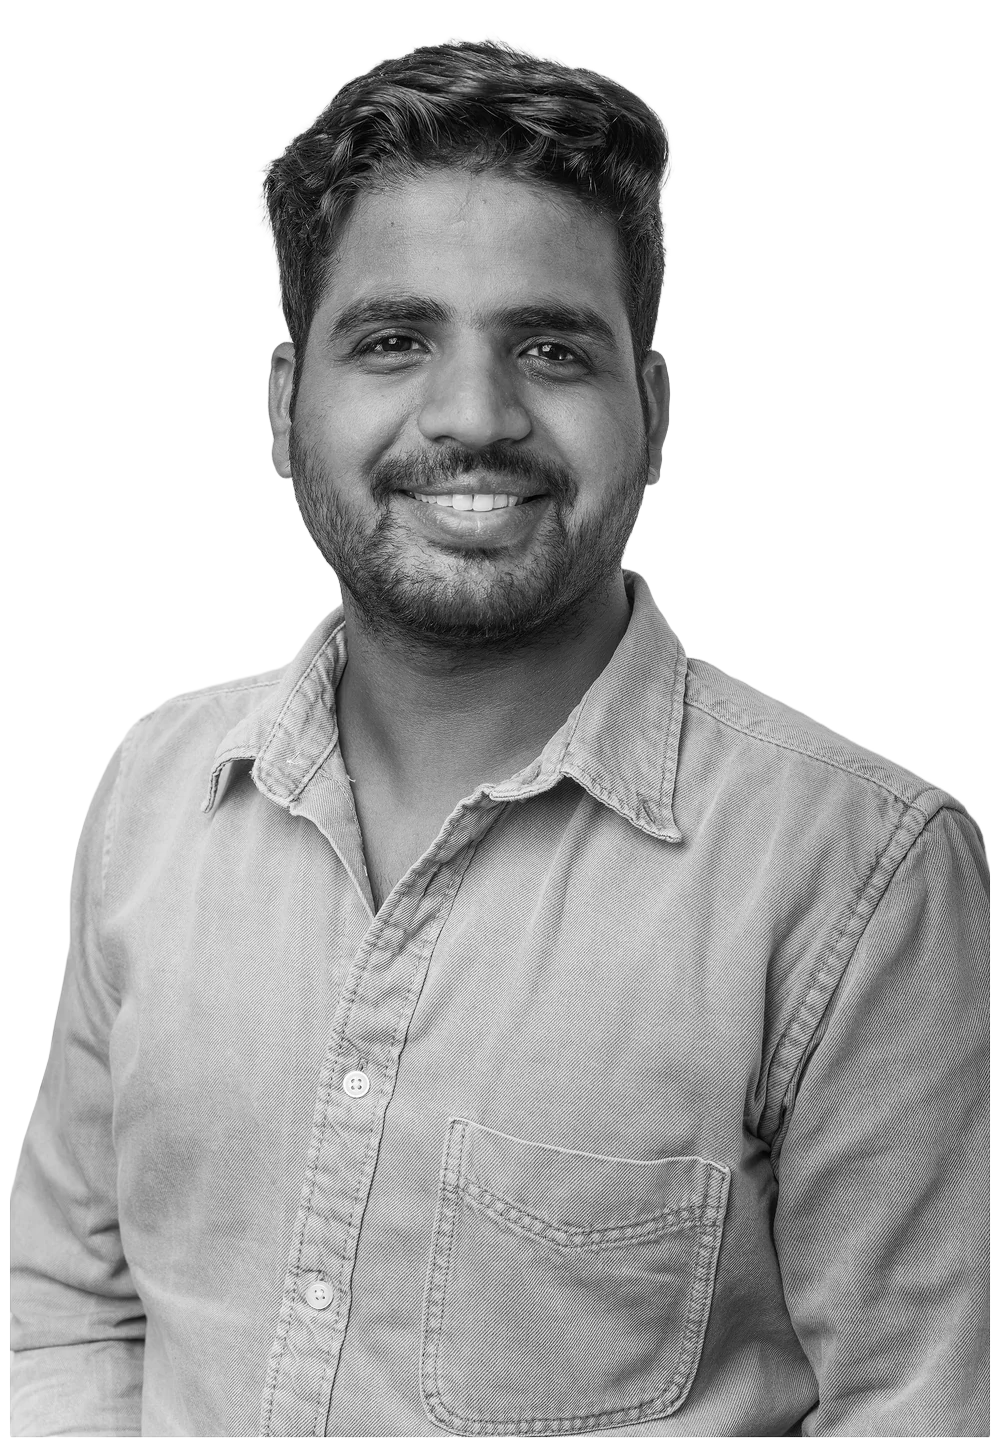
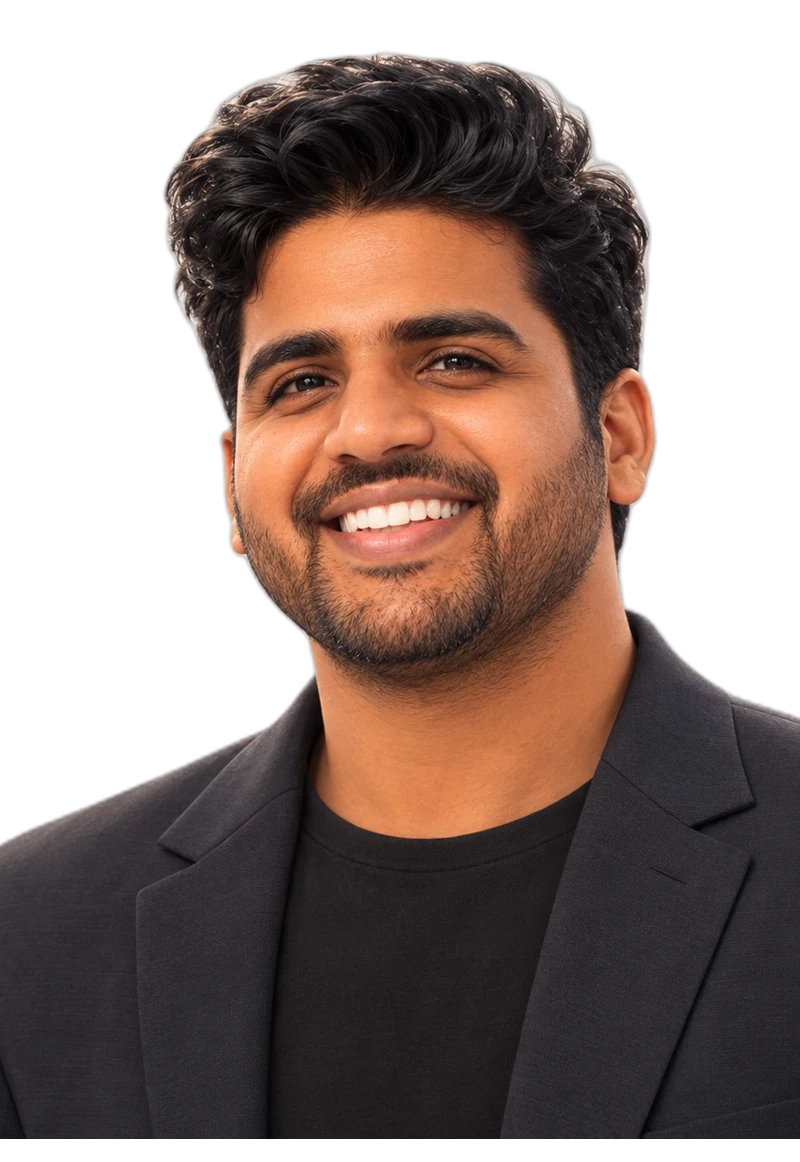
Publish the generated portrait, and say on the page that it is generated
The hero and the /about frame now carry the synthetic portrait the owner
generated from his own photograph, replacing the third-party photograph that
stood in the hero before. That reverses the decision recorded in
_portfolio-work/photos/PHOTOS.md, which confined it to the GitHub profile; the
reversal is recorded there rather than quietly made. The CVs and LinkedIn keep
the real photograph.

It is photorealistic, so a reader would otherwise take it for a photograph.
src/content/home.ts exports portraitNote, rendered as the hero figure's
figcaption and in the /about caption. Both read the one constant, so the two
pages cannot disagree about what the picture is, and removing the label is an
edit to a named export rather than a tidy-up of one page.

/about showed a "ZQ" monogram until now: ProfilePortrait looks for
public/images/zamin-profile.jpg and that file had never been committed. It is
committed here, square-cropped against its own backdrop rather than cut out,
because that frame is a squircle with a background of its own.

The hero pair is rebuilt by _portfolio-work/photos/make_hero_avatar.py from one
alpha matte and one crop box, composited onto the frame by the same geometry so
the depth map cannot drift from the colour texture and shear the face. Depth
comes from Depth Anything V2 Small, run locally. The frame keeps the 1000:1452
ratio, so home.css needed no change; the subject is fitted to its height and
[…]

diff --git a/src/content/home.ts b/src/content/home.ts
@@ -59,17 +59,19 @@ export const parisNetwork = {
 } as const;
 
 /*
- * There is no photographer credit on this site.
+ * There is no photographer credit on this site, and from 22 October 2026 there
+ * is nothing left to credit: the hero is no longer a photograph.
  *
- * A credit line sat in the footer of every page from 18 to 19 October 2026 and
+ * The history is kept because the clearance it records was conditional. A
+ * credit line sat in the footer of every page from 18 to 19 October 2026 and
  * was removed on 19 October at the owner's instruction. The owner holds the
  * licence and the relationship with the photographer, so whether an attribution
- * is published is theirs to decide.
+ * is published was theirs to decide.
  *
  * The photographer is deliberately not named here either. This repository is
  * public, so a name in a comment is a published name, which is the thing that
- * was asked to be removed. The clearance, the original condition and this
- * change are all recorded in `_portfolio-work/photos/PHOTOS.md`, which is local
+ * was asked to be removed. The clearance, the original condition and both
+ * changes are recorded in `_portfolio-work/photos/PHOTOS.md`, which is local
  * and not published.
  *
  * Nothing in the build depends on it. If it is ever restored it goes back in
@@ -79,19 +81,46 @@ export const parisNetwork = {
 /**
  * The hero portrait, and the depth map that gives it parallax.
  *
- * Both are produced together by `_portfolio-work/photos/make_hero_3d.py` from
- * one alpha matte and one crop box, so they align by construction. The depth
- * map comes from Depth Anything V2 run locally: the photograph is licensed
- * third-party work, and sending it to a hosted depth service would be a
- * redistribution nobody licensed.
+ * This is not a photograph. It is a synthetic portrait the owner generated
+ * from his own photograph, published here from 22 October 2026 at his
+ * instruction, replacing the third-party photograph that stood here before.
+ * Because it is photorealistic a reader would otherwise take it for a
+ * photograph, so the page says what it is underneath it: see `portraitNote`
+ * below, which is rendered as the figure's caption and is not optional
+ * decoration. The CVs and LinkedIn keep the real photograph; that split, and
+ * the reversal of the earlier decision, are recorded in
+ * `_portfolio-work/photos/PHOTOS.md`.
  *
- * The photograph itself is untouched. The shader offsets where it samples;
- * it never writes a pixel. See src/components/home/DepthPortrait.tsx.
+ * Colour and depth are produced together by
+ * `_portfolio-work/photos/make_hero_avatar.py` from one alpha matte and one
+ * crop box, composited onto the output frame by the same geometry, so they
+ * align by construction. A depth map offset from its colour texture shears the
+ * face. The depth map comes from Depth Anything V2 run locally.
+ *
+ * The frame keeps the 1000:1452 ratio the photograph had, so home.css needs no
+ * change: the grid column, the bottom mask and the mobile width all behave as
+ * they did. The subject is fitted to the frame's height and the outer
+ * shoulders are cropped, which is an ordinary headshot crop; the face is well
+ * inside the frame at every width.
+ *
+ * The source pixels are untouched. The shader offsets where it samples; it
+ * never writes a pixel. See src/components/home/DepthPortrait.tsx.
  */
 export const portrait = {
   src: "/media/hero-3d-color.webp",
   depth: "/media/hero-3d-depth.webp",
-  width: 1000,
-  height: 1452,
-  alt: `${site.name}, black and white portrait`,
+  width: 800,
+  height: 1162,
+  alt: `${site.name}, generated portrait`,
 } as const;
+
+/**
+ * What the portrait is, said on the page rather than only in this file.
+ *
+ * A site that argues for labelled evidence cannot publish a photorealistic
+ * generated likeness as though it were a photograph. This is the label, and it
+ * is rendered wherever that portrait is: the hero figure's caption and the
+ * /about portrait's caption both read from here, so neither can drift from the
+ * other or be removed by editing one page.
+ */
+export const portraitNote = "AI-generated portrait, based on my own photograph";

diff --git a/src/components/ProfilePortrait.tsx b/src/components/ProfilePortrait.tsx
@@ -6,10 +6,16 @@ import { site } from "@/content/portfolio";
 /**
  * The profile portrait, with a deterministic fallback.
  *
- * The photograph is not committed yet, and a missing file must not break the build or
- * leave a broken image on the page. The existence check runs on the server at build
- * time, so a page either renders the real portrait or a generated monogram, never an
- * empty box and never a request for a file that is not there.
+ * The image is committed from 22 October 2026. It is the same generated portrait the
+ * hero carries, square-cropped against its own backdrop rather than cut out, because
+ * this frame is a squircle with a background of its own and fills it with
+ * `object-fit: cover`. The page labels it: see `portraitNote` in src/content/home.ts,
+ * rendered in the caption beside this by src/app/about/page.tsx.
+ *
+ * The fallback is kept. A missing file must not break the build or leave a broken image
+ * on the page, and the existence check runs on the server at build time, so a page
+ * either renders the portrait or a generated monogram, never an empty box and never a
+ * request for a file that is not there.
  *
  * The fallback is drawn from the existing theme tokens rather than a new palette, so it
  * reads as part of the design rather than as a missing asset.
@@ -83,7 +89,7 @@ export default function ProfilePortrait({
       <div className="portrait-frame">
         {hasPortrait ? (
           <Image
-            alt={`${site.name}, ${site.role}`}
+            alt={`${site.name}, generated portrait`}
             className="portrait-image"
             height={size}
             priority={priority}

diff --git a/src/app/globals.css b/src/app/globals.css
@@ -4117,6 +4117,29 @@ ol {
 }
 
 /*
+ * What the portrait is, under the name.
+ *
+ * Deliberately not the mono accent above, which is the site's style for a
+ * credential and would set a disclosure in the typeface it uses to make a
+ * claim. This matches `.hero-portrait-note` in home.css instead: the same
+ * label, on the two pages that show the same picture, reading the same quiet
+ * way on both.
+ *
+ * `span.portrait-note` rather than `.portrait-caption .portrait-note`: the
+ * rule above is `.portrait-caption span:last-child`, which carries a
+ * pseudo-class and so outweighs two plain classes. This matches its weight and
+ * comes after it.
+ */
+.portrait-caption span.portrait-note {
+  font-family: var(--sans);
+  font-size: 0.78rem;
+  letter-spacing: normal;
+  line-height: 1.4;
+  color: var(--ink-soft);
+  text-wrap: balance;
+}
+
+/*
  * Parallax, done with a scroll-driven CSS animation so it costs no JavaScript and
  * disappears entirely where the feature or the motion preference is absent. Travel is
  * capped at 12px; only transform is animated, so nothing reflows.

diff --git a/src/app/about/page.tsx b/src/app/about/page.tsx
@@ -11,6 +11,7 @@ import { DomainsCanvas } from "@/components/scene/PersonalCanvases";
 import PageShell from "@/components/PageShell";
 import PhotoStrip from "@/components/about/PhotoStrip";
 import ProfilePortrait from "@/components/ProfilePortrait";
+import { portraitNote } from "@/content/home";
 import { capabilities, getProject, site, thesis } from "@/content/portfolio";
 import { createPageMetadata } from "@/lib/metadata";
 import { ArrowLabel } from "@/components/Icon";
@@ -77,6 +78,13 @@ export default function AboutPage() {
             */}
             <p className="portrait-caption">
               <strong>{site.name}</strong>
+              {/*
+                * The same label the hero carries, read from the same constant,
+                * because this is the same generated portrait. Two pages
+                * showing one picture must not be able to disagree about what
+                * it is.
+                */}
+              <span className="portrait-note">{portraitNote}</span>
             </p>
           </div>
         </div>

diff --git a/src/components/home/Hero.tsx b/src/components/home/Hero.tsx
@@ -1,7 +1,7 @@
 import Link from "next/link";
 
 import DepthPortrait from "@/components/home/DepthPortrait";
-import { heroLinks, homeIntro, parisNetwork, portrait } from "@/content/home";
+import { heroLinks, homeIntro, parisNetwork, portrait, portraitNote } from "@/content/home";
 import { site } from "@/content/portfolio";
 
 /*
@@ -89,6 +89,13 @@ export default async function Hero() {
             height={portrait.height}
             width={portrait.width}
           />
+          {/*
+            * The portrait is generated, and it is photorealistic enough that a
+            * reader would otherwise take it for a photograph. A figcaption is
+            * the element that says what a figure is, so the label is one, not
+            * a tooltip or a line of alt text only a screen reader reaches.
+            */}
+          <figcaption className="hero-portrait-note">{portraitNote}</figcaption>
         </figure>
       </div>
 

diff --git a/src/app/home.css b/src/app/home.css
@@ -212,6 +212,27 @@
   mask-image: linear-gradient(to bottom, #000 40%, transparent 92%);
 }
 
+/*
+ * What the portrait is.
+ *
+ * The image above it is generated and photorealistic, so the page says so
+ * rather than letting a reader assume a photograph. It is set quiet - the
+ * footnote's size and colour - because it is a label and not a claim the hero
+ * is making, but it is never hidden, and it sits inside the figure so it
+ * cannot be separated from the picture it describes.
+ *
+ * Negative top margin: the image's own mask fades its last fifth to nothing,
+ * so the box ends well below the last visible pixel and a caption spaced off
+ * the box edge reads as drifting away from the portrait.
+ */
+.hero-portrait-note {
+  margin: -2.2rem 0 0;
+  color: var(--ink-soft);
+  font-size: 0.78rem;
+  line-height: 1.4;
+  text-wrap: balance;
+}
+
 .hero-footnote {
   position: relative;
   z-index: 1;

diff --git a/src/components/home/DepthPortrait.tsx b/src/components/home/DepthPortrait.tsx
@@ -636,7 +636,7 @@ export default function DepthPortrait({ color, depth, alt, width, height, classN
         * a finger, so there is something true and useful to say instead.
         */}
       {drawing && tilt === "denied" ? (
-        <p className="hero-tilt-note">Motion access is off. Drag the photo instead.</p>
+        <p className="hero-tilt-note">Motion access is off. Drag the portrait instead.</p>
       ) : null}
       {debug ? (
         <pre className="hero-debug">
